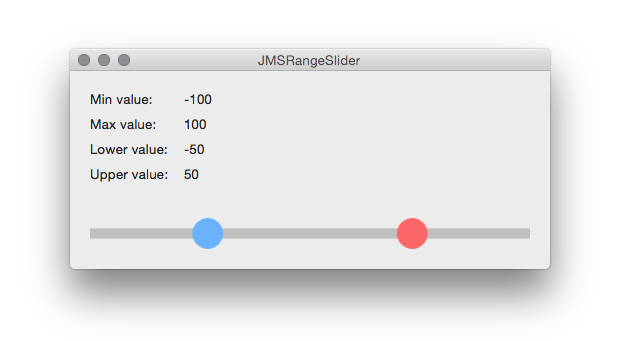
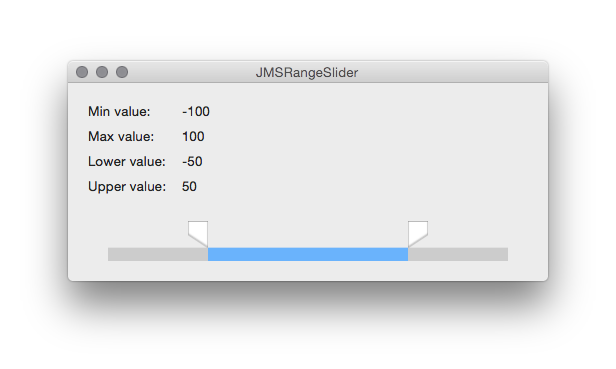
[CONFIG] Updated screenshot; updated demo values

diff --git a/JMSRangeSlider/MainView.swift b/JMSRangeSlider/MainView.swift
@@ -19,8 +19,8 @@ class MainView: NSView {
     
     let startMinValue: Double = -100
     let startMaxValue: Double = 100
-    let startLowerValue: Double = -100
-    let startUpperValue: Double = 100
+    let startLowerValue: Double = -50
+    let startUpperValue: Double = 50
     
     required init?(coder: NSCoder) {
         super.init(coder: coder)
